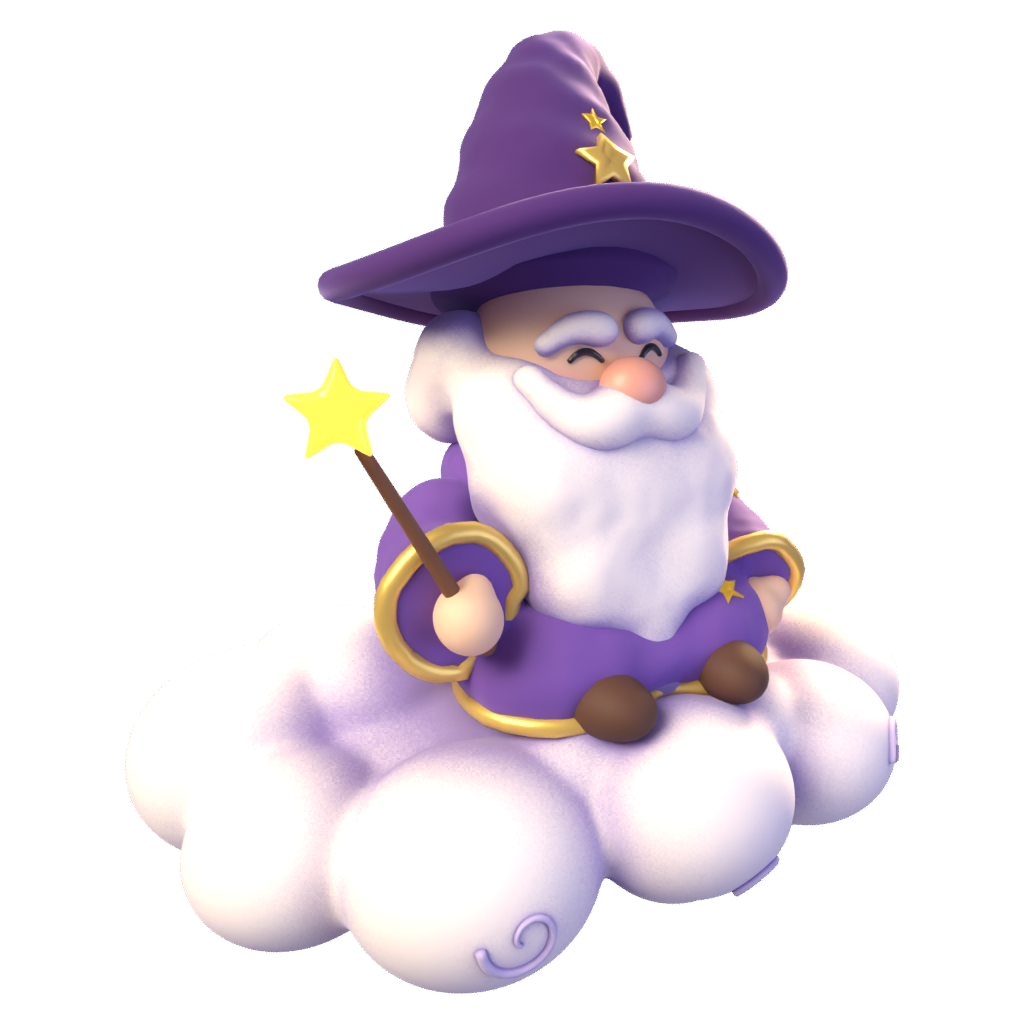
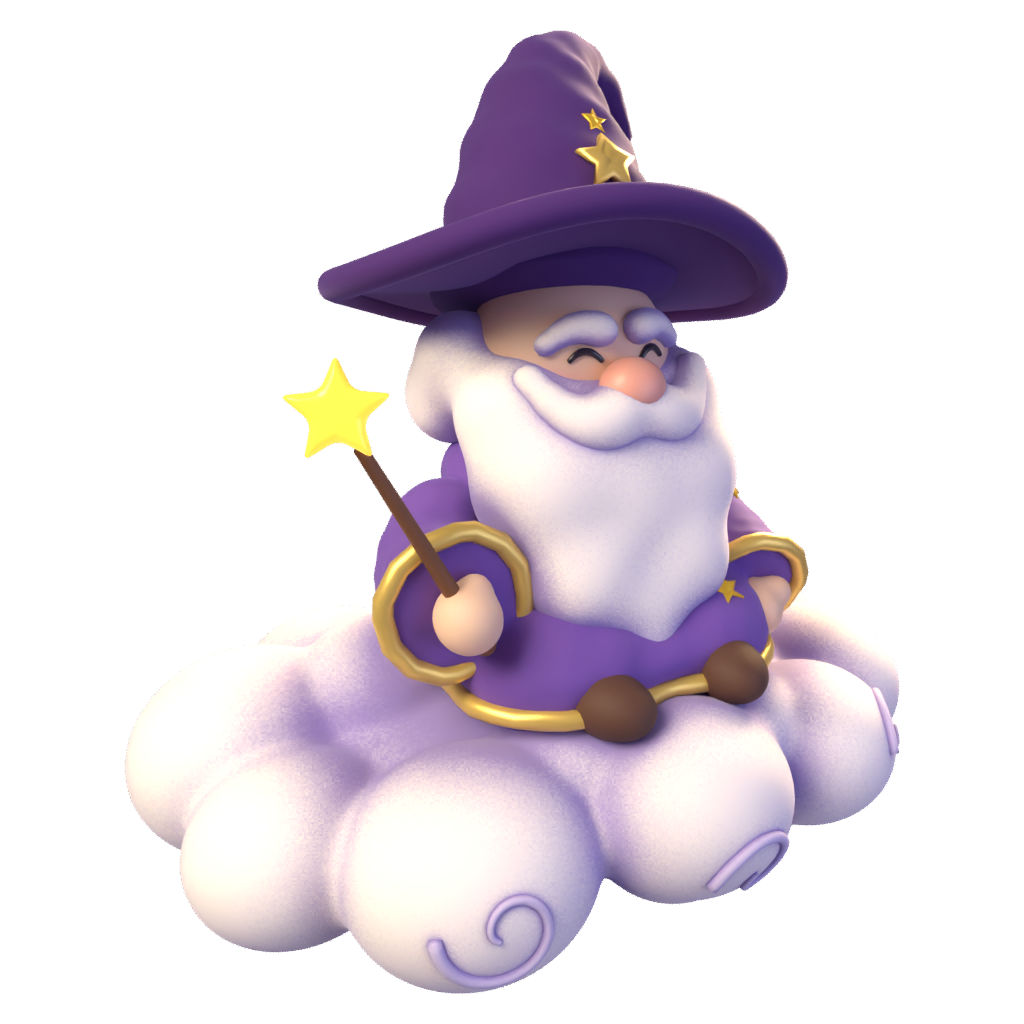
wip(art): wizard renders, island and screen iterations, art bible update
gdUnit 568/568 on this snapshot.

Story: art bible v2 (design/art/art-bible.md)

Claude-Session: https://claude.ai/code/session_015gA98JmmjSJ5ZLv762bPy3

diff --git a/assets/source/blender/characters/wizard.py b/assets/source/blender/characters/wizard.py
@@ -304,7 +304,7 @@ def ring_on_surface(name, target, center, axis, tube, mat, n=36, push=0.003, fro
     return sweep(name, pts, [tube] * len(pts), ring=12, mat=mat, closed=True)
 
 
-def trim_ring(name, target, center, axis, tube, mat, n=36, slab=0.012, push=0.002):
+def trim_ring(name, target, center, axis, tube, mat, n=36, slab=0.012, push=0.002, maxr=9.0):
     """Closed trim tube hugging a surface: per angular bin, the outermost vertex of `target`
     inside a thin slab across `axis` (raycasts hit the torso from inside the sleeves)."""
     axis = Vector(axis).normalized()
@@ -316,6 +316,7 @@ def trim_ring(name, target, center, axis, tube, mat, n=36, slab=0.012, push=0.00
     Q = co.reshape(-1, 3) - np.array(center)
     h = Q @ np.array(axis)
     Q = Q[np.abs(h) < slab]
+    Q = Q[np.linalg.norm(Q - np.outer(Q @ np.array(axis), np.array(axis)), axis=1) < maxr]
     if len(Q) < 16:
         return None
     x, y = Q @ np.array(u), Q @ np.array(v)
@@ -502,7 +503,7 @@ def build(pose_name, M):
         bmesh.ops.transform(bm, matrix=Matrix.Translation(co) @ Matrix.Diagonal((*semi, 1.0)), verts=g["verts"])
     bm.transform(Matrix.Diagonal((1.12, 1.05, 1.0, 1.0)))
     cloud = mesh_obj("C_cloud", bm, M["cloud"])
-    add_mods(cloud, remesh=0.012, smooth=(0.6, 14))
+    add_mods(cloud, remesh=0.012, smooth=(0.8, 30))
     cloud = realize(cloud)
     C.append(cloud)
     # spiral swirls on the front puffs
@@ -630,13 +631,12 @@ def build(pose_name, M):
     # gold trim: cuffs and hem
     for side in ("R", "L"):
         Wr, d = arm_dirs[side]
-        cuff = trim_ring(f"W_cuff{side}", robe.copy(), Wr + d * 0.02, d, 0.016, M["trim"], n=28, slab=0.01) if False else \
-            trim_ring(f"W_cuff{side}", sleeve_only[side], Wr + d * 0.02, d, 0.016, M["trim"], n=28, slab=0.01)
+        cuff = trim_ring(f"W_cuff{side}", robe, Wr + d * 0.01, d, 0.015, M["trim"], n=28, slab=0.008, maxr=0.13)
         if cuff:
             W.append(cuff)
     for sl in sleeve_only.values():
         bpy.data.meshes.remove(sl.data)
-    hem = trim_ring("W_hem", robe, (0, -0.05, 0.49), (0, 0, 1), 0.016, M["trim"], n=56, slab=0.008)
+    hem = trim_ring("W_hem", robe, (0, -0.05, 0.49), (0, 0, 1), 0.013, M["trim"], n=56, slab=0.008)
     if hem:
         W.append(hem)
 
@@ -965,7 +965,7 @@ def main():
         parts = build("idle", materials())
         bake_and_export(parts, None, a.root, 16)
         sc.cycles.samples = max(12, a.samples // 2)
-        P = sample_points(parts["cloud"][:1] if False else [o for o in bpy.data.objects if o.type == "MESH"])
+        P = sample_points([o for o in bpy.data.objects if o.type == "MESH"])
         place_view(sc, P, -32, 12, 0.04, 640, 640)
         render(sc, os.path.join(ev, "glb_lowpoly_preview.png"))
 

diff --git a/design/art/art-bible.md b/design/art/art-bible.md
@@ -1,7 +1,14 @@
 # Wacky Towers — Art Bible
 
-Version 2 · 2026-10-13. This replaces the v1 bible. The user decided: "delete the old art, make it
-look like the reference style".
+Version 2.1 · 2026-10-13. This replaces the v1 bible. The user decided: "delete the old art, make it
+look like the reference style". v2.1 adds the full cast, bosses, party-mode HUD, the Party Quest hub,
+mode-select picture cards and story-beat composition after a study of every board (see
+`assets/art/reference/index.md`). Gap list: `design/art/art-gap-review-2026-10-13.md`. Asset list:
+`design/art/asset-list-v2.md`.
+
+**Logo rule:** boards 09-12 mockups carry the logos "TETRO PARTY DIMENSIONS", "WACKY PARTY" and "PARTY
+QUEST". We use those boards for layout and content only. Never copy, redraw or ship those logos. Our
+logo is `assets/art/reference/logo_master.jpg`. Avoid "Tetris" naming anywhere.
 
 **References** (in `assets/art/reference/style/`) are the source of truth. When this document
 and a reference disagree, the reference wins.
@@ -16,6 +23,11 @@ and a reference disagree, the reference wins.
 | `01/02/07_story_*.jpg` | Story beats (wizard's library, tutorial, boss, finale) |
 | `09`–`12_minigames_*.jpg` | Party minigames and their HUD |
 | `logo_master.jpg` | The logo. Use as-is. Never redraw it. |
+| `16_settings_wizard_peek.jpg` | Settings with the wizard peeking in, rope borders, gear ornaments |
+| `minigame_mockups/mockup_06, 12, 14` | Party HUD, 4-player split screens (layout only, logos banned) |
+| `minigame_mockups/mockup_15.jpg` | Portrait party battle: P1-P4 cards with lives, goal chips |
+| `minigame_mockups/mockup_16.jpg` | Party Quest hub: central fort, bridges to minigame islands |
+| `minigame_mockups/mockup_17.jpg` | Quantum Spire: sci-fi hex board, holo HUD |
 
 ---
 
@@ -118,6 +130,11 @@ used as nine-patches. They must match these specs.
 | **Player tag** | Dark rounded tag: portrait, name, score (refs 09–12) |
 | **Meter** | Vertical thermometer (heat, balance, altitude) with a red→green gradient and a bulb (refs 09–12) |
 | **Timer** | Dark rounded lozenge, cream digits (refs 09–12) |
+
+See section 5b for the full party HUD language (cards, hearts, slots, meters, boss bar, goal chips).
+Settings extras (ref 08, 16): rope borders, gear ornaments on the lower corners, star corner caps,
+branch-stick slider tracks, a tiny wizard hat on a corner, a segmented control (gold selected, brown
+unselected), and a green "link account" pill. The wizard peeks around the frame edge, holding his wand.
 
 **Banned:** light-yellow flat bars, hairline borders, flat rectangles, default Godot theme,
 and unstyled text buttons.
